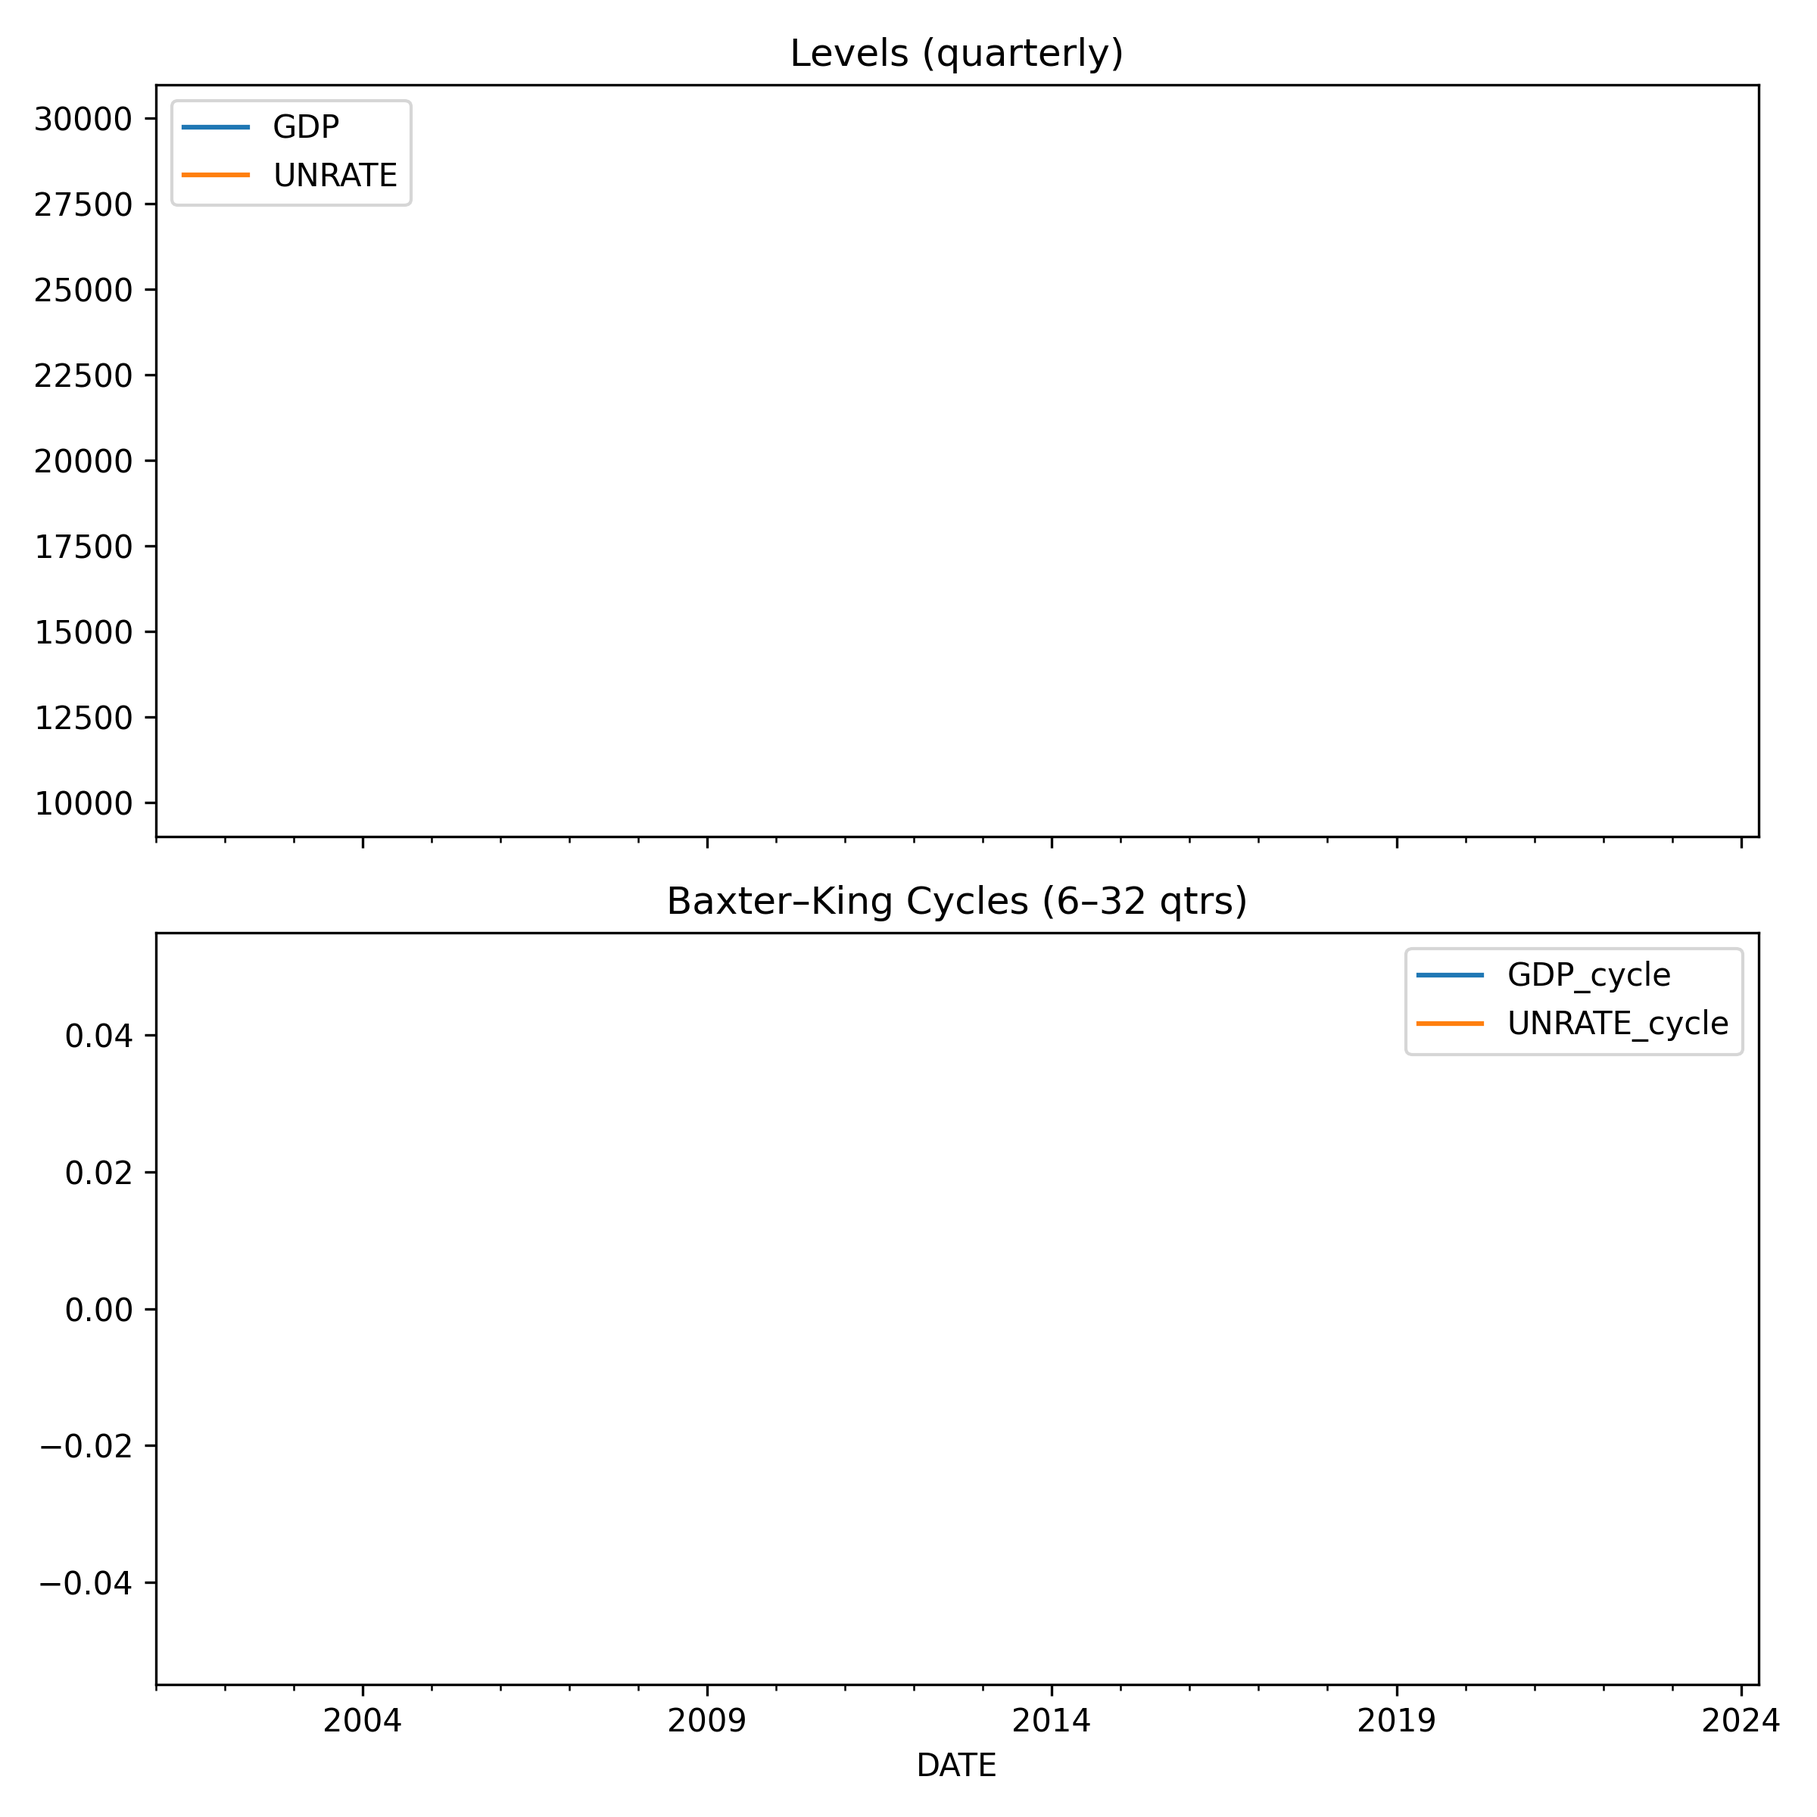
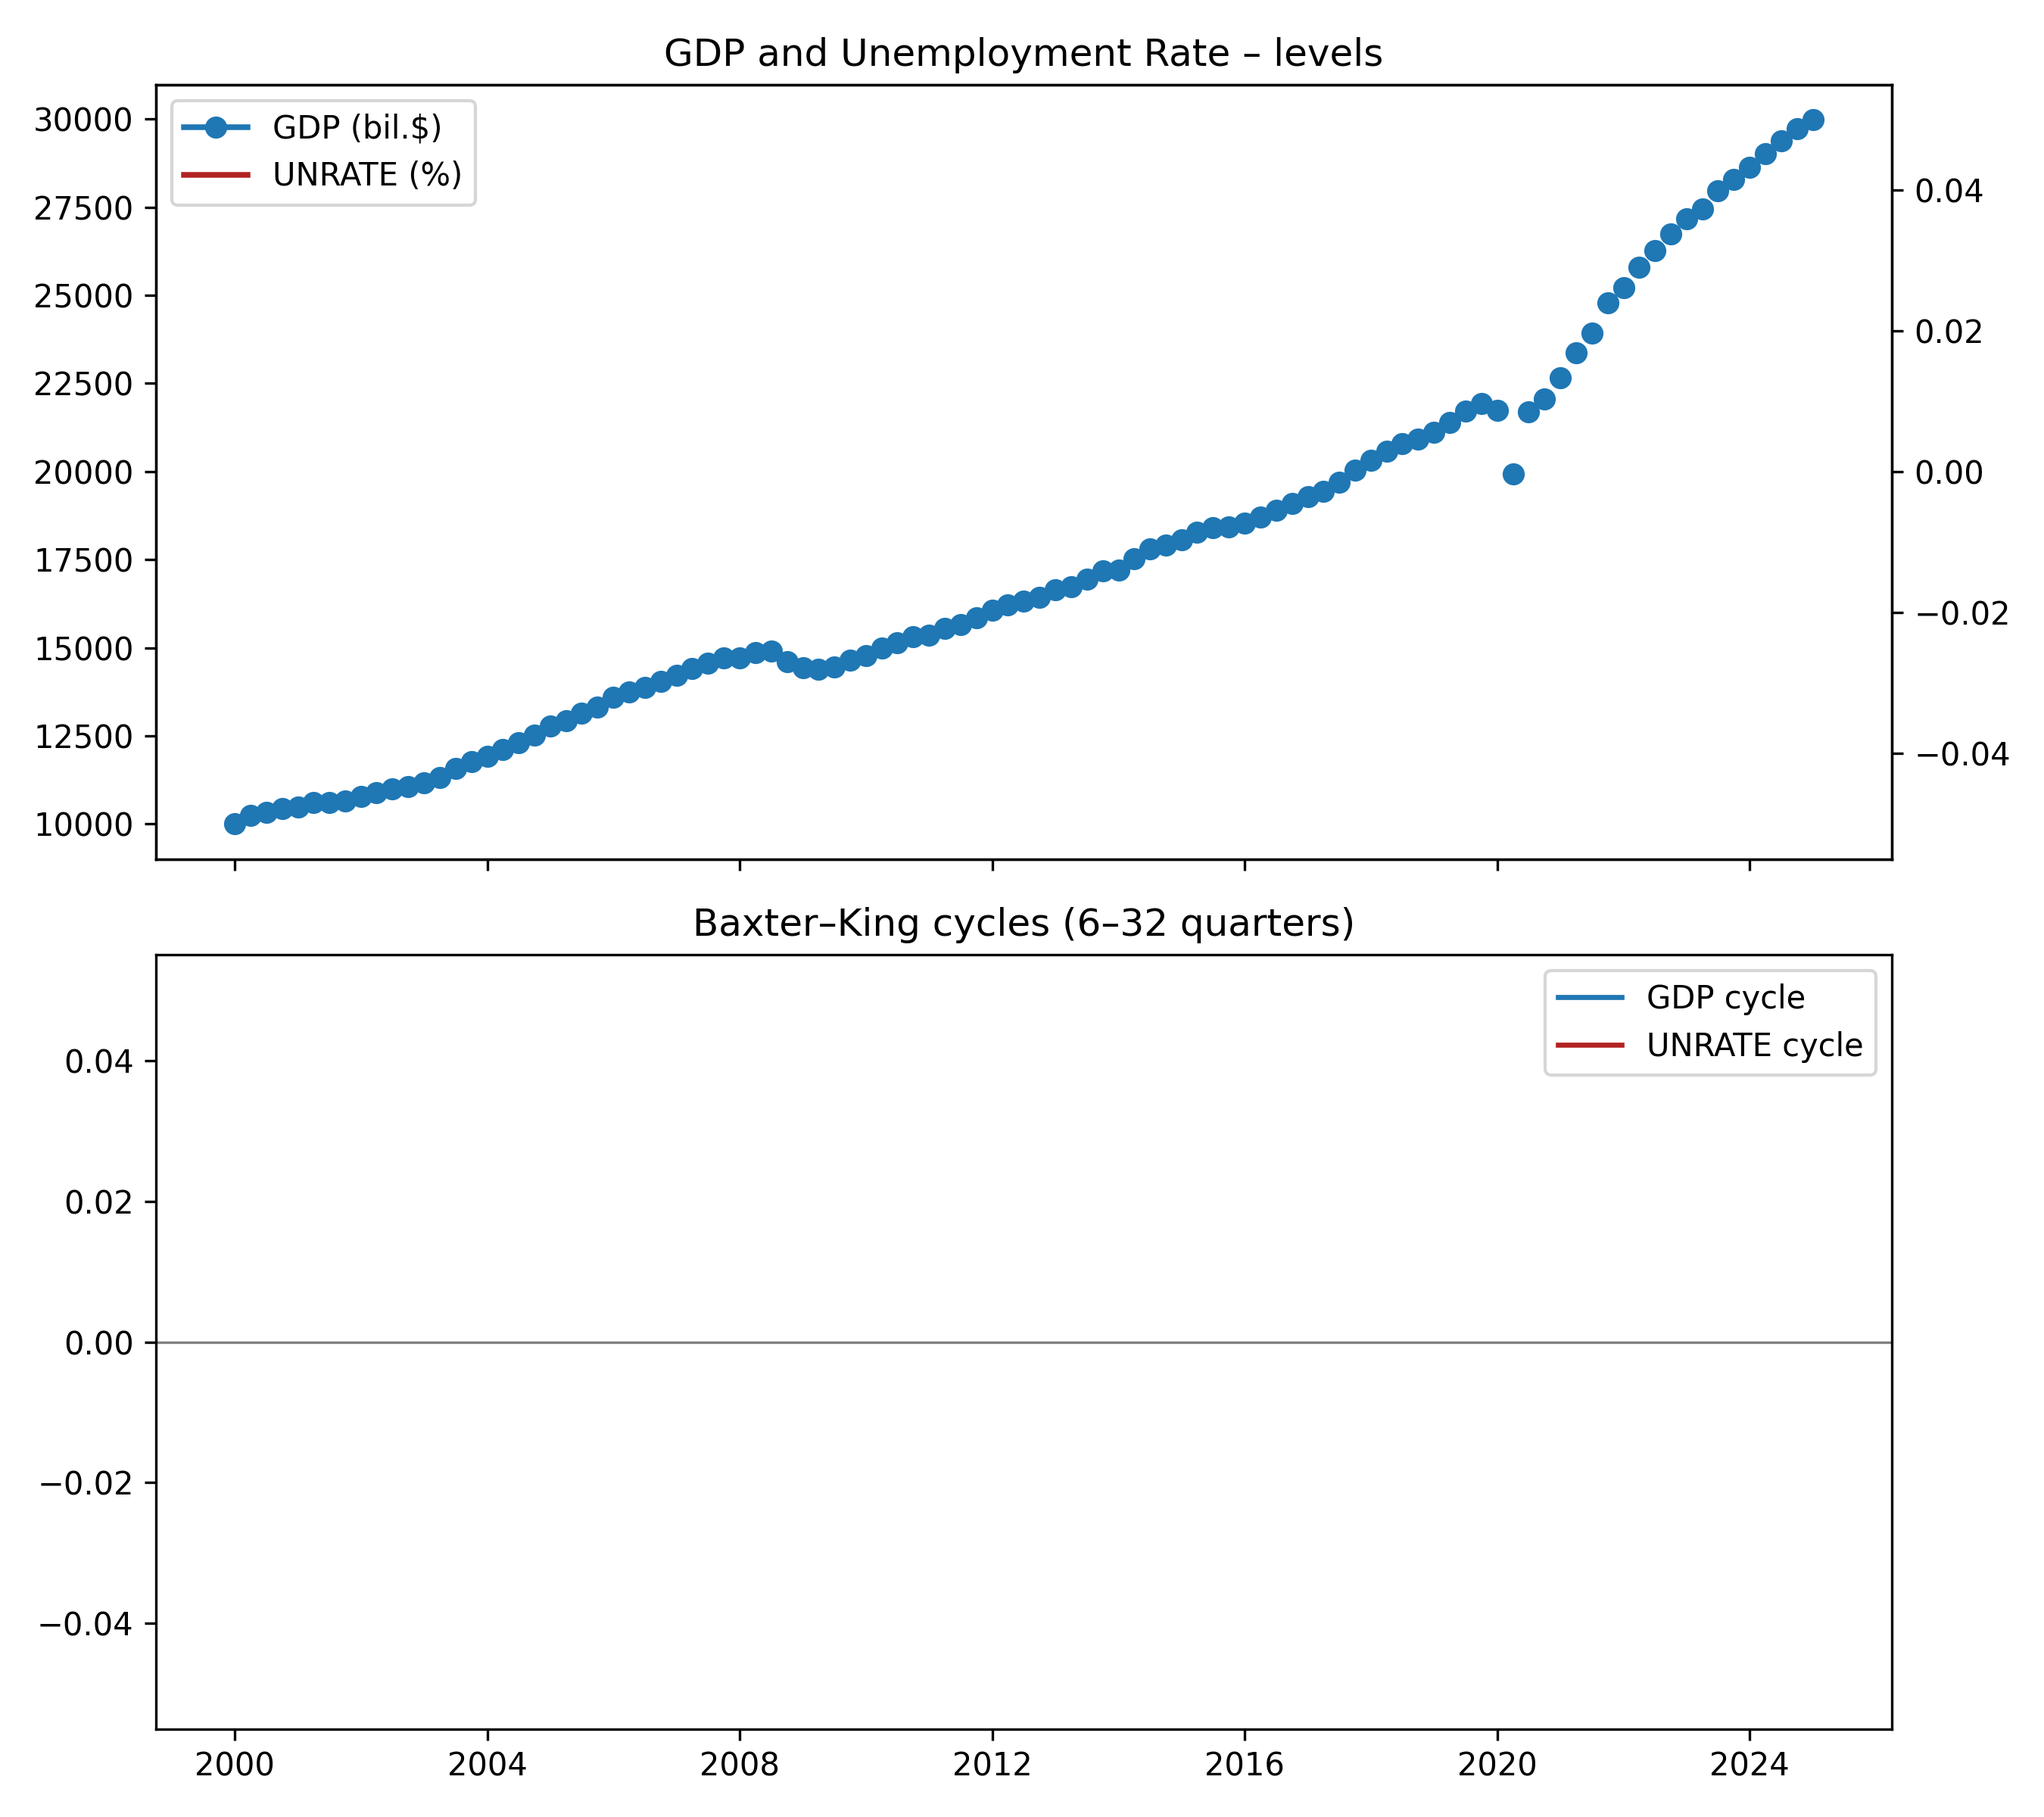
Clean script; draw visible BK plot; remove duplicates

diff --git a/src/analysis.py b/src/analysis.py
@@ -1,56 +1,68 @@
-# applying Baxter–King filter to FRED data
+"""
+Baxter King (BK) filter demo on FRED data
+Creates figures/bk_gdp_unrate.png with clearly visible lines
+"""
 
-
-# libs:
 from datetime import datetime
 import pathlib
-
 import pandas as pd
 import matplotlib.pyplot as plt
-from pandas_datareader import data as web
 from statsmodels.tsa.filters.bk_filter import bkfilter
-
 from fredapi import Fred
+
+# ────────────────────────────────
+#  1. Download data via fredapi
+# ────────────────────────────────
 fred = Fred(api_key="3f8e92e5cfc9b253a12a0fd0610576ef")
-import pandas as pd
+
 df = pd.DataFrame({
-    "GDP": fred.get_series("GDP", observation_start="2000-01-01"),
+    "GDP": fred.get_series("GDP",    observation_start="2000-01-01"),
     "UNRATE": fred.get_series("UNRATE", observation_start="2000-01-01")
 })
 
-
-# ---------------------------------------------------------------------
-SERIES = ["GDP", "UNRATE"]
-START = "2000-01-01"
-
-# Download the data
-df = web.DataReader(SERIES, "fred", START)
-
-# Convert UNRATE monthly to a quarterly average
+# Convert monthly UNRATE to a quarterly average
 df_q = df.copy()
 df_q["UNRATE"] = df["UNRATE"].resample("Q").mean()
 
-# Baxter–King filter (band-pass 6–32 quarters, K = 12 lags)
-gdp_cycle = bkfilter(df_q["GDP"], low=6, high=32, K=12)
+# ────────────────────────────────
+#  2. Baxter–King filter (6–32 qtrs)
+# ────────────────────────────────
+gdp_cycle = bkfilter(df_q["GDP"],    low=6, high=32, K=12)
 unr_cycle = bkfilter(df_q["UNRATE"], low=6, high=32, K=12)
-cycle_df = pd.DataFrame(
-    {"GDP_cycle": gdp_cycle, "UNRATE_cycle": unr_cycle}
-)
-# ---------------------------------------------------------------------
+cycle_df  = pd.DataFrame({"GDP_cycle": gdp_cycle, "UNRATE_cycle": unr_cycle})
 
-# Plot
-fig, axes = plt.subplots(2, 1, figsize=(8, 8), sharex=True)
+# ────────────────────────────────
+#  3. Plot
+# ────────────────────────────────
+fig, (ax1, ax2) = plt.subplots(2, 1, figsize=(9, 8), sharex=True)
 
-df_q[["GDP", "UNRATE"]].plot(ax=axes[0])
-axes[0].set_title("Levels (quarterly)")
+# Levels
+ax1.plot(df_q.index, df_q["GDP"],    linewidth=1.8, marker="o",
+         label="GDP (bil.$)")
+ax1b = ax1.twinx()
+ax1b.plot(df_q.index, df_q["UNRATE"], linewidth=1.8, color="firebrick",
+          label="UNRATE (%)")
+ax1.set_title("GDP and Unemployment Rate – levels")
+lines, labels = ax1.get_legend_handles_labels()
+lines2, labels2 = ax1b.get_legend_handles_labels()
+ax1.legend(lines + lines2, labels + labels2, loc="upper left")
 
-cycle_df.plot(ax=axes[1])
-axes[1].set_title("Baxter–King Cycles (6–32 qtrs)")
+# Cycles
+ax2.plot(cycle_df.index, cycle_df["GDP_cycle"],
+         linewidth=1.6, label="GDP cycle")
+ax2.plot(cycle_df.index, cycle_df["UNRATE_cycle"],
+         linewidth=1.6, color="firebrick", label="UNRATE cycle")
+ax2.axhline(0, color="gray", linewidth=0.8)
+ax2.set_title("Baxter–King cycles (6–32 quarters)")
+ax2.legend()
 
 plt.tight_layout()
 
-# save:
+# ────────────────────────────────
+#  4. Save
+# ────────────────────────────────
 pathlib.Path("figures").mkdir(exist_ok=True)
 outfile = "figures/bk_gdp_unrate.png"
-plt.savefig(outfile, dpi=300)
+plt.savefig(outfile, dpi=300) 
+plt.close()
 print(f"Plot saved as {outfile}")
